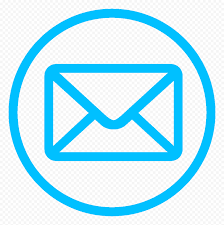
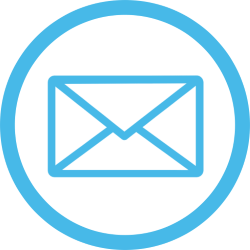
fixed links, resized image

diff --git a/accessDenied.php b/accessDenied.php
@@ -51,15 +51,11 @@ session_start();
 
       <nav id="navbar" class="navbar order-last order-lg-0">
         <ul>
-          <li><a class="nav-link scrollto " href="index.php">Home</a></li>
+          <li><a class="nav-link scrollto active" href="index.php#hero">Home</a></li>
           <li><a class="nav-link scrollto" href="index.php#about">About</a></li>
-          <li><a class="nav-link scrollto" href="index.php#services">Services</a></li>
-          <li><a class="nav-link scrollto" href="organizations.php">Organizations</a></li>
-          <li><a class="nav-link scrollto active" href="#hero">Appeals</a></li>
-          <li><a class="nav-link scrollto" href="index.php#testimonials">Testimonials</a></li>
-          <li><a class="nav-link scrollto" href="#contact">Contact</a></li>
-          <li><a class="nav-link scrollto" href="applicants.php">Applicants</a></li>
+          <li><a class="nav-link scrollto" href="contribute.php">Contribute</a></li>
           <li><a class="nav-link scrollto" href="login.php">Login</a></li>
+          <li><a class="nav-link scrollto " href="register.php">Register</a></li>
         </ul>
         <i class="bi bi-list mobile-nav-toggle"></i>
       </nav><!-- .navbar -->

diff --git a/login.php b/login.php
@@ -42,11 +42,11 @@
 
       <nav id="navbar" class="navbar order-last order-lg-0">
         <ul>
-          <li><a class="nav-link scrollto active" href="index.php">Home</a></li>
+          <li><a class="nav-link scrollto" href="index.php">Home</a></li>
           <li><a class="nav-link scrollto" href="index.php#about">About</a></li>
           <li><a class="nav-link scrollto" href="contribute.php">Contribute</a></li>
-          <li><a class="nav-link scrollto" href="login.php">Login</a></li>
-          <li><a class="nav-link scrollto " href="register.php">Register</a></li>
+          <li><a class="nav-link scrollto active" href="login.php">Login</a></li>
+          <li><a class="nav-link scrollto" href="register.php">Register</a></li>
         </ul>
         <i class="bi bi-list mobile-nav-toggle"></i>
       </nav><!-- .navbar -->
